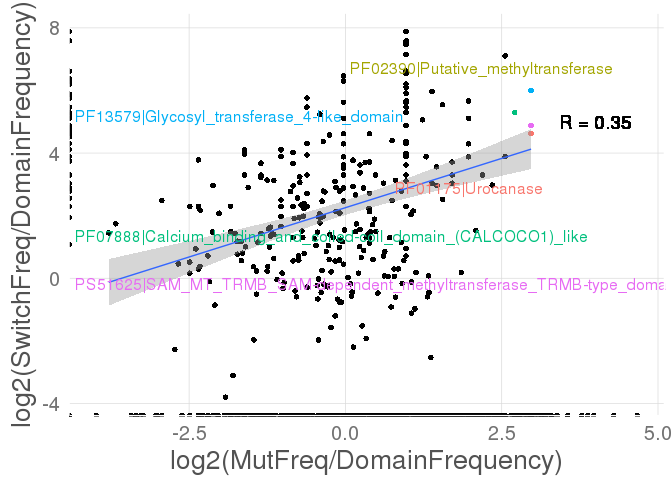
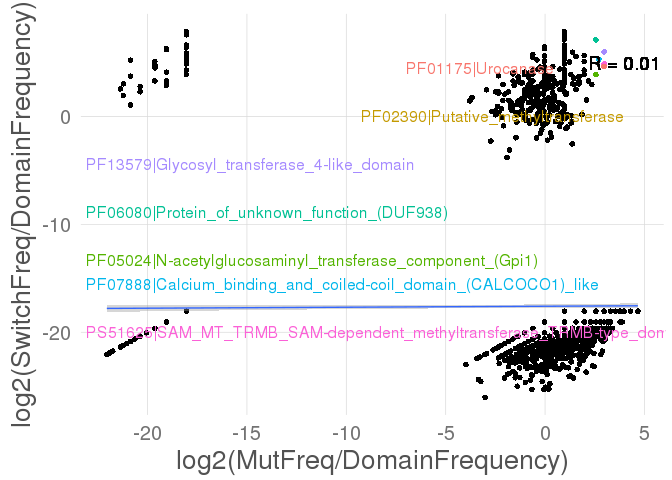
updated

diff --git a/notebook/20151006_mutation_analysis.md b/notebook/20151006_mutation_analysis.md
@@ -1,3 +1,13 @@
+-   Specific switches: overlap in features affected by mutations and switches
+    -   Analysis per tumor type
+    -   Analysis aggregating all tumors
+    -   Comparison with meScores
+-   General overlap in features affected by mutations and switches
+    -   View of the dat
+        -   Analysis per tumor type
+    -   Analysis aggregating all tumors
+    -   Cluster in domain function
+
     ## Loading required package: grid
     ## Loading required package: quadprog
 
@@ -181,8 +191,10 @@ We look for structural features that are frequently mutated and we compare them 
 
 We annotated the domains relatively highly mutated and highly switched (highly meaning \> quantile 95).
 
-Analysis per tumor type
------------------------
+View of the dat
+---------------
+
+### Analysis per tumor type
 
 ``` r
 feat_enrich <- read.delim(paste0(wd,'feature_enrichment.txt'), header=TRUE)
@@ -194,29 +206,14 @@ feat_enrich$SwitchFreq <- feat_enrich$SwitchesIn/feat_enrich$SwitchesTotal
 
 for (cancer in cancerTypes){
   
+  cat(paste0(cancer,"\n"))
   cancer.feat_enrich <- feat_enrich[feat_enrich$Cancer==cancer,]
   
   # plot normalized mutation frequency and switched frequency
   minMut <- quantile(cancer.feat_enrich$MutFreq/cancer.feat_enrich$DomainFrequency,0.95)
   minSwitch <- quantile(cancer.feat_enrich$SwitchFreq/cancer.feat_enrich$DomainFrequency,0.95)
   
-
-  # calculate regression coefficient
-  r.df <- cancer.feat_enrich[cancer.feat_enrich$MutFreq > 0 & cancer.feat_enrich$SwitchFreq > 0,]
-  r <- cor(log2(r.df$MutFreq/r.df$DomainFrequency),log2(r.df$SwitchFreq/r.df$DomainFrequency))
-  
-  cat(paste0(cancer,"\n"))
-  
-  p <- ggplot(cancer.feat_enrich,aes(log2(MutFreq/DomainFrequency),log2(SwitchFreq/DomainFrequency))) + 
-    geom_point() + 
-    geom_point(data=subset(cancer.feat_enrich, MutFreq/DomainFrequency > minMut & SwitchFreq/DomainFrequency > minSwitch),aes(log2(MutFreq/DomainFrequency),log2(SwitchFreq/DomainFrequency),color=Domain)) + 
-    smartas_theme() + 
-    geom_smooth(data=subset(cancer.feat_enrich,MutFreq>0 & SwitchFreq>0),method=lm) + 
-    geom_text(x=4,y=5,label=paste0("R = ",round(r,2)))
-  p <- direct.label(p)
-  
-  print(p)
-  
+  # plot raw data
   r <- cor(cancer.feat_enrich$MutFreq/cancer.feat_enrich$DomainFrequency,
            cancer.feat_enrich$SwitchFreq/cancer.feat_enrich$DomainFrequency)
   
@@ -228,8 +225,7 @@ for (cancer in cancerTypes){
     geom_text(x=20,y=100,label=paste0("R = ",round(r,2)))
   p <- direct.label(p)
   
-  print(p)
-  
+  print(p)  
 }
 ```
 
@@ -237,54 +233,128 @@ for (cancer in cancerTypes){
 
     ## Loading required package: proto
 
-![](20151006_mutation_analysis_files/figure-markdown_github/unnamed-chunk-5-1.png) ![](20151006_mutation_analysis_files/figure-markdown_github/unnamed-chunk-5-2.png)
+![](20151006_mutation_analysis_files/figure-markdown_github/tumor_mutVsSwitch-1.png)
 
     ## coad
 
-![](20151006_mutation_analysis_files/figure-markdown_github/unnamed-chunk-5-3.png) ![](20151006_mutation_analysis_files/figure-markdown_github/unnamed-chunk-5-4.png)
+![](20151006_mutation_analysis_files/figure-markdown_github/tumor_mutVsSwitch-2.png)
 
     ## hnsc
 
-![](20151006_mutation_analysis_files/figure-markdown_github/unnamed-chunk-5-5.png) ![](20151006_mutation_analysis_files/figure-markdown_github/unnamed-chunk-5-6.png)
+![](20151006_mutation_analysis_files/figure-markdown_github/tumor_mutVsSwitch-3.png)
 
     ## kich
 
-![](20151006_mutation_analysis_files/figure-markdown_github/unnamed-chunk-5-7.png) ![](20151006_mutation_analysis_files/figure-markdown_github/unnamed-chunk-5-8.png)
+![](20151006_mutation_analysis_files/figure-markdown_github/tumor_mutVsSwitch-4.png)
 
     ## kirc
 
-![](20151006_mutation_analysis_files/figure-markdown_github/unnamed-chunk-5-9.png) ![](20151006_mutation_analysis_files/figure-markdown_github/unnamed-chunk-5-10.png)
+![](20151006_mutation_analysis_files/figure-markdown_github/tumor_mutVsSwitch-5.png)
 
     ## kirp
 
-![](20151006_mutation_analysis_files/figure-markdown_github/unnamed-chunk-5-11.png) ![](20151006_mutation_analysis_files/figure-markdown_github/unnamed-chunk-5-12.png)
+![](20151006_mutation_analysis_files/figure-markdown_github/tumor_mutVsSwitch-6.png)
 
     ## lihc
 
-![](20151006_mutation_analysis_files/figure-markdown_github/unnamed-chunk-5-13.png) ![](20151006_mutation_analysis_files/figure-markdown_github/unnamed-chunk-5-14.png)
+![](20151006_mutation_analysis_files/figure-markdown_github/tumor_mutVsSwitch-7.png)
 
     ## luad
 
-![](20151006_mutation_analysis_files/figure-markdown_github/unnamed-chunk-5-15.png) ![](20151006_mutation_analysis_files/figure-markdown_github/unnamed-chunk-5-16.png)
+![](20151006_mutation_analysis_files/figure-markdown_github/tumor_mutVsSwitch-8.png)
 
     ## lusc
 
-![](20151006_mutation_analysis_files/figure-markdown_github/unnamed-chunk-5-17.png) ![](20151006_mutation_analysis_files/figure-markdown_github/unnamed-chunk-5-18.png)
+![](20151006_mutation_analysis_files/figure-markdown_github/tumor_mutVsSwitch-9.png)
 
     ## prad
 
-![](20151006_mutation_analysis_files/figure-markdown_github/unnamed-chunk-5-19.png) ![](20151006_mutation_analysis_files/figure-markdown_github/unnamed-chunk-5-20.png)
+![](20151006_mutation_analysis_files/figure-markdown_github/tumor_mutVsSwitch-10.png)
 
     ## thca
 
-![](20151006_mutation_analysis_files/figure-markdown_github/unnamed-chunk-5-21.png) ![](20151006_mutation_analysis_files/figure-markdown_github/unnamed-chunk-5-22.png)
+![](20151006_mutation_analysis_files/figure-markdown_github/tumor_mutVsSwitch-11.png)
 
-The non-logarithmic scale leads to think that usually changes achieved by splicing are not achieved by mutations and viceversa. Still, there are some outlier domains that are a bit outside the L-shape.
+The non-logarithmic scale leads to think that usually changes achieved by splicing are not achieved by mutations and viceversa. Still, there are some outlier domains that are a bit outside the L-shape, suggesting that some features can either be affected by any mechanism. To find out about those, we remove the deatures that have 0 on either SwitchFreq or MutFreq, and perform a log2 to better observe them.
 
-When applying the log2 scale, some
+``` r
+  # plot log representations and remove those that have 0 on either side
+for (cancer in cancerTypes){
+  
+  cat(paste0(cancer,"\n"))
+  cancer.feat_enrich <- feat_enrich[feat_enrich$Cancer==cancer,]
+  
+  # plot normalized mutation frequency and switched frequency
+  minMut <- quantile(cancer.feat_enrich$MutFreq/cancer.feat_enrich$DomainFrequency,0.95)
+  minSwitch <- quantile(cancer.feat_enrich$SwitchFreq/cancer.feat_enrich$DomainFrequency,0.95)
+
+  # filter data and get correlation
+  r.df <- subset(cancer.feat_enrich, MutFreq != 0 & SwitchFreq != 0)
+  r <- cor(log2(r.df$MutFreq/r.df$DomainFrequency),
+           log2(r.df$SwitchFreq/r.df$DomainFrequency))
+  
+  p <- ggplot(r.df,aes(log2(MutFreq/DomainFrequency),log2(SwitchFreq/DomainFrequency))) + 
+    geom_point() + 
+    geom_point(data=subset(r.df, MutFreq/DomainFrequency > minMut & SwitchFreq/DomainFrequency > minSwitch),aes(log2(MutFreq/DomainFrequency),log2(SwitchFreq/DomainFrequency),color=Domain)) + 
+    smartas_theme() + 
+    geom_smooth(data=subset(r.df,MutFreq>0 & SwitchFreq>0),method=lm) + 
+    geom_text(x=-2,y=5,label=paste0("R = ",round(r,2)))
+  p <- direct.label(p)
+  
+  print(p)
+}
+```
+
+    ## brca
+
+![](20151006_mutation_analysis_files/figure-markdown_github/tumor_log_mutVsSwitch-1.png)
+
+    ## coad
+
+![](20151006_mutation_analysis_files/figure-markdown_github/tumor_log_mutVsSwitch-2.png)
+
+    ## hnsc
+
+![](20151006_mutation_analysis_files/figure-markdown_github/tumor_log_mutVsSwitch-3.png)
+
+    ## kich
+
+![](20151006_mutation_analysis_files/figure-markdown_github/tumor_log_mutVsSwitch-4.png)
+
+    ## kirc
+
+![](20151006_mutation_analysis_files/figure-markdown_github/tumor_log_mutVsSwitch-5.png)
+
+    ## kirp
+
+![](20151006_mutation_analysis_files/figure-markdown_github/tumor_log_mutVsSwitch-6.png)
+
+    ## lihc
+
+![](20151006_mutation_analysis_files/figure-markdown_github/tumor_log_mutVsSwitch-7.png)
+
+    ## luad
+
+![](20151006_mutation_analysis_files/figure-markdown_github/tumor_log_mutVsSwitch-8.png)
+
+    ## lusc
+
+![](20151006_mutation_analysis_files/figure-markdown_github/tumor_log_mutVsSwitch-9.png)
+
+    ## prad
+
+![](20151006_mutation_analysis_files/figure-markdown_github/tumor_log_mutVsSwitch-10.png)
+
+    ## thca
+
+![](20151006_mutation_analysis_files/figure-markdown_github/tumor_log_mutVsSwitch-11.png)
+
+When applying the log2 scale, not only some correlation appears, but some domains that appear to be interesting.
 
 Analysis aggregating all tumors
 -------------------------------
+
+We apply the same process to aggregated data from all tumors.
 
 ``` r
 feat_enrich_agg <- ddply(feat_enrich,.(Domain), summarise, 
@@ -297,30 +367,7 @@ feat_enrich_agg$SwitchFreq <- feat_enrich_agg$SwitchesIn/feat_enrich_agg$Switche
 minMut <- quantile(feat_enrich_agg$MutFreq/feat_enrich_agg$MeanDomainFrequency,0.95)
 minSwitch <- quantile(feat_enrich_agg$SwitchFreq/feat_enrich_agg$MeanDomainFrequency,0.95)
 
-# calculate regression coefficient
-r.df <- feat_enrich_agg[feat_enrich_agg$MutFreq > 0 & feat_enrich_agg$SwitchFreq > 0,]
-r <- cor(log2(r.df$MutFreq/r.df$MeanDomainFrequency),log2(r.df$SwitchFreq/r.df$MeanDomainFrequency))
-
-p <- ggplot(data=feat_enrich_agg,
-            aes(log2(MutFreq/MeanDomainFrequency),log2(SwitchFreq/MeanDomainFrequency))) + 
-  geom_point() + 
-  geom_point(data=subset(feat_enrich_agg,
-                         MutFreq/MeanDomainFrequency > minMut & 
-                         SwitchFreq/MeanDomainFrequency > minSwitch),
-             aes(log2(MutFreq/MeanDomainFrequency),
-                 log2(SwitchFreq/MeanDomainFrequency),
-                 color=Domain)) + 
-  smartas_theme() + 
-  geom_smooth(data=subset(feat_enrich_agg,MutFreq>0 & SwitchFreq>0),method=lm) + 
-  geom_text(x=4,y=5,label=paste0("R = ",round(r,2)))
-p <- direct.label(p)
-
-p
-```
-
-![](20151006_mutation_analysis_files/figure-markdown_github/unnamed-chunk-6-1.png)
-
-``` r
+# plot original data
 r <- cor(feat_enrich_agg$MutFreq/feat_enrich_agg$MeanDomainFrequency,
          feat_enrich_agg$SwitchFreq/feat_enrich_agg$MeanDomainFrequency)
 
@@ -341,4 +388,36 @@ p <- direct.label(p)
 p
 ```
 
-![](20151006_mutation_analysis_files/figure-markdown_github/unnamed-chunk-6-2.png)
+![](20151006_mutation_analysis_files/figure-markdown_github/aggregated_mutVsSwitch-1.png)
+
+``` r
+# plot log2 representations and remove those that have 0 on either side
+r.df <- subset(feat_enrich_agg, MutFreq != 0 & SwitchFreq != 0)
+r <- cor(log2(r.df$MutFreq/r.df$MeanDomainFrequency),
+         log2(r.df$SwitchFreq/r.df$MeanDomainFrequency))
+
+p <- ggplot(data=r.df,
+            aes(log2(MutFreq/MeanDomainFrequency),log2(SwitchFreq/MeanDomainFrequency))) + 
+  geom_point() + 
+  geom_point(data=subset(r.df,
+                         MutFreq/MeanDomainFrequency > minMut & 
+                         SwitchFreq/MeanDomainFrequency > minSwitch),
+             aes(log2(MutFreq/MeanDomainFrequency),
+                 log2(SwitchFreq/MeanDomainFrequency),
+                 color=Domain)) + 
+  smartas_theme() + 
+  geom_smooth(data=subset(r.df,MutFreq>0 & SwitchFreq>0),method=lm) + 
+  geom_text(x=-3,y=2,label=paste0("R = ",round(r,2)))
+p <- direct.label(p)
+
+p
+```
+
+![](20151006_mutation_analysis_files/figure-markdown_github/aggregated_log_mutVsSwitch-1.png)
+
+Similar results appear, but the correlation is quite lost, suggesting that the domains that need to be affected in each cancer type are tumor specific.
+
+Cluster in domain function
+--------------------------
+
+We wanted to know if there are some common functions between
